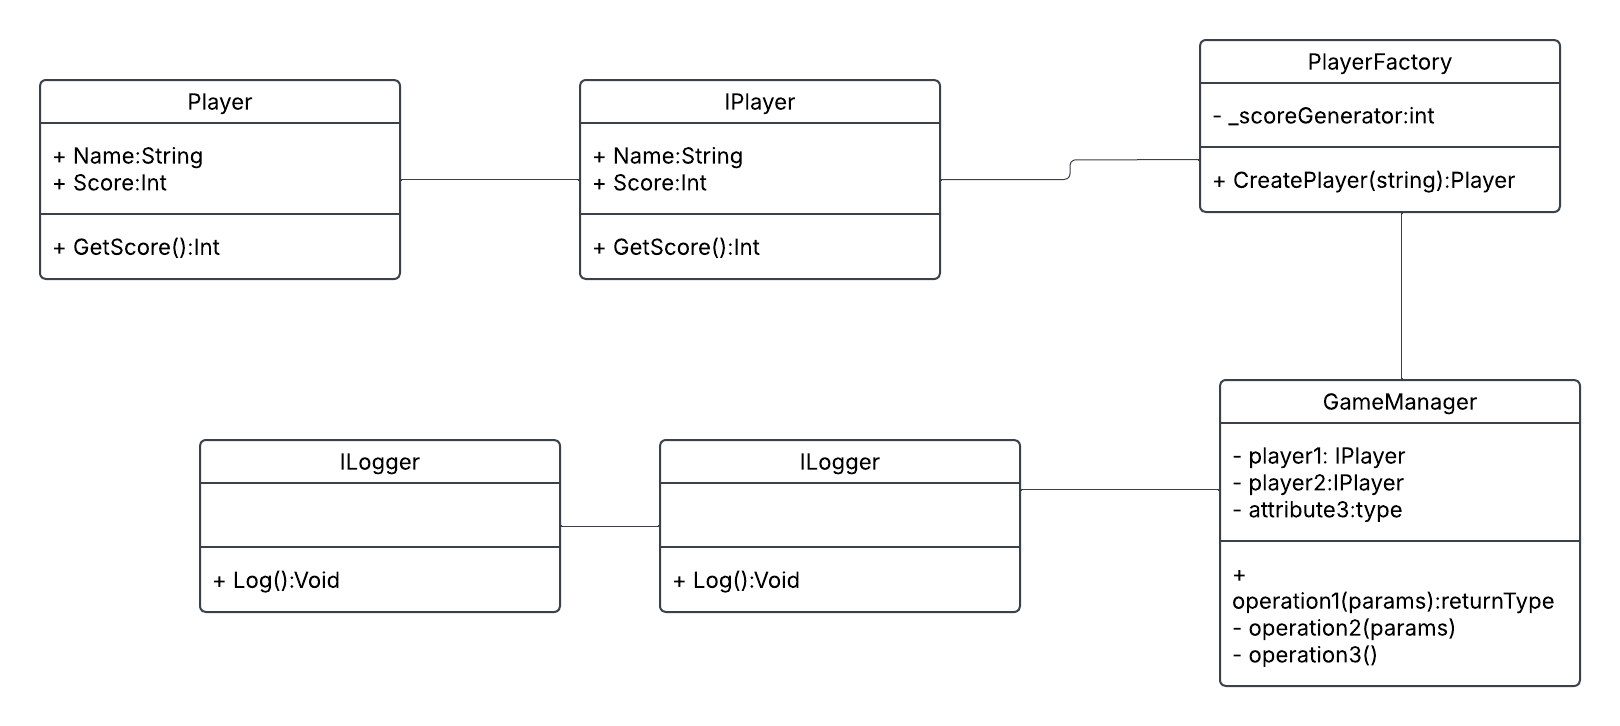
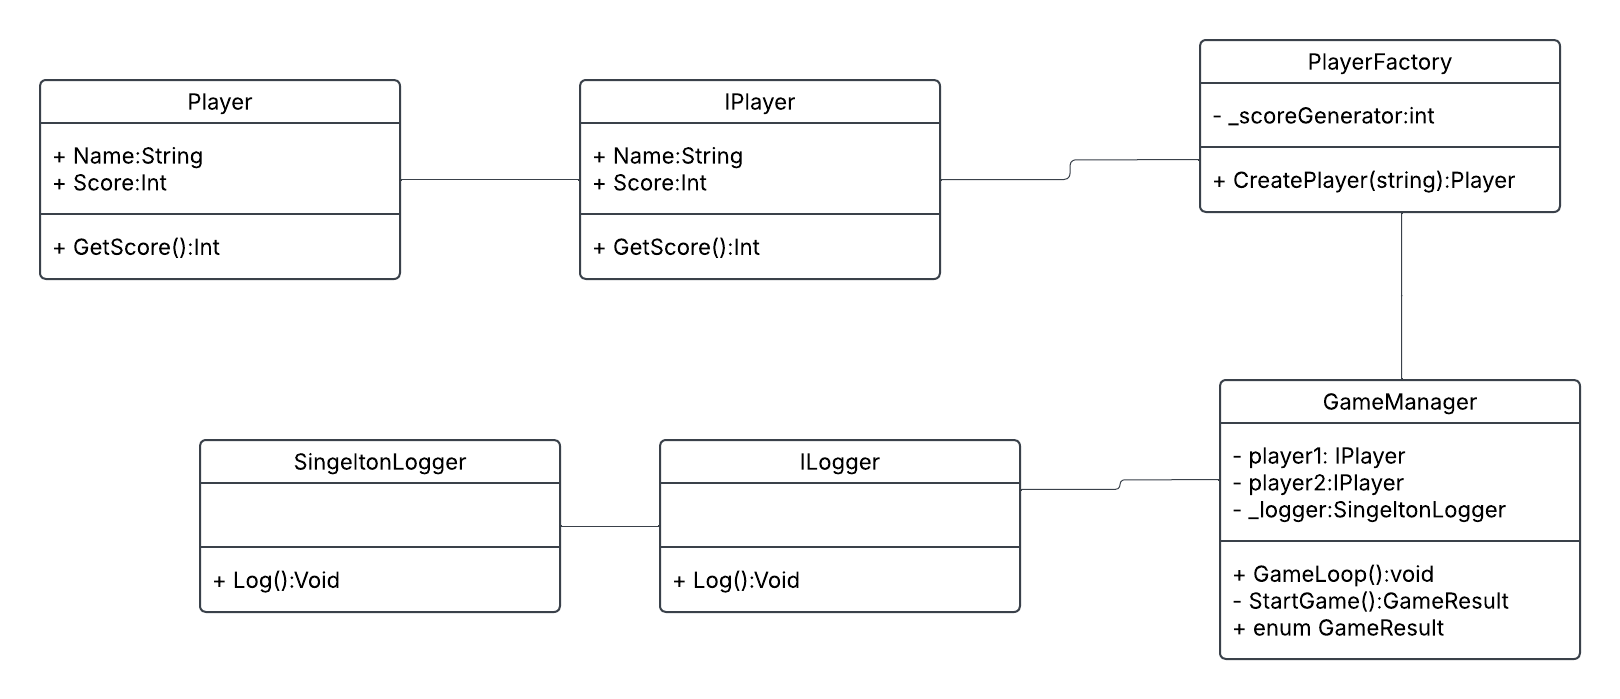
Fixed diagrams and added wireframe

diff --git a/BowlingGame/Migrations/20250303204006_PlayerTable.cs b/BowlingGame/Migrations/20250303204006_PlayerTable.cs
@@ -1,0 +1,72 @@
+using Microsoft.EntityFrameworkCore.Migrations;
+
+#nullable disable
+
+namespace BowlingGame.Migrations
+{
+    /// <inheritdoc />
+    public partial class PlayerTable : Migration
+    {
+        /// <inheritdoc />
+        protected override void Up(MigrationBuilder migrationBuilder)
+        {
+            migrationBuilder.AlterColumn<string>(
+                name: "Player2Name",
+                table: "Games",
+                type: "nvarchar(max)",
+                nullable: true,
+                oldClrType: typeof(string),
+                oldType: "nvarchar(max)");
+
+            migrationBuilder.AlterColumn<string>(
+                name: "Player1Name",
+                table: "Games",
+                type: "nvarchar(max)",
+                nullable: true,
+                oldClrType: typeof(string),
+                oldType: "nvarchar(max)");
+
+            migrationBuilder.CreateTable(
+                name: "Players",
+                columns: table => new
+                {
+                    Id = table.Column<int>(type: "int", nullable: false)
+                        .Annotation("SqlServer:Identity", "1, 1"),
+                    Name = table.Column<string>(type: "nvarchar(max)", nullable: false),
+                    Score = table.Column<int>(type: "int", nullable: false),
+                    TopScore = table.Column<int>(type: "int", nullable: false)
+                },
+                constraints: table =>
+                {
+                    table.PrimaryKey("PK_Players", x => x.Id);
+                });
+        }
+
+        /// <inheritdoc />
+        protected override void Down(MigrationBuilder migrationBuilder)
+        {
+            migrationBuilder.DropTable(
+                name: "Players");
+
+            migrationBuilder.AlterColumn<string>(
+                name: "Player2Name",
+                table: "Games",
+                type: "nvarchar(max)",
+                nullable: false,
+                defaultValue: "",
+                oldClrType: typeof(string),
+                oldType: "nvarchar(max)",
+                oldNullable: true);
+
+            migrationBuilder.AlterColumn<string>(
+                name: "Player1Name",
+                table: "Games",
+                type: "nvarchar(max)",
+                nullable: false,
+                defaultValue: "",
+                oldClrType: typeof(string),
+                oldType: "nvarchar(max)",
+                oldNullable: true);
+        }
+    }
+}

diff --git a/BowlingGame/Migrations/20250303204006_PlayerTable.Designer.cs b/BowlingGame/Migrations/20250303204006_PlayerTable.Designer.cs
@@ -3,6 +3,7 @@ using BowlingGame.data;
 using Microsoft.EntityFrameworkCore;
 using Microsoft.EntityFrameworkCore.Infrastructure;
 using Microsoft.EntityFrameworkCore.Metadata;
+using Microsoft.EntityFrameworkCore.Migrations;
 using Microsoft.EntityFrameworkCore.Storage.ValueConversion;
 
 #nullable disable
@@ -10,9 +11,11 @@ using Microsoft.EntityFrameworkCore.Storage.ValueConversion;
 namespace BowlingGame.Migrations
 {
     [DbContext(typeof(MyDbContext))]
-    partial class MyDbContextModelSnapshot : ModelSnapshot
+    [Migration("20250303204006_PlayerTable")]
+    partial class PlayerTable
     {
-        protected override void BuildModel(ModelBuilder modelBuilder)
+        /// <inheritdoc />
+        protected override void BuildTargetModel(ModelBuilder modelBuilder)
         {
 #pragma warning disable 612, 618
             modelBuilder
@@ -20,6 +23,29 @@ namespace BowlingGame.Migrations
                 .HasAnnotation("Relational:MaxIdentifierLength", 128);
 
             SqlServerModelBuilderExtensions.UseIdentityColumns(modelBuilder);
+
+            modelBuilder.Entity("BowlingGame.Player", b =>
+                {
+                    b.Property<int>("Id")
+                        .ValueGeneratedOnAdd()
+                        .HasColumnType("int");
+
+                    SqlServerPropertyBuilderExtensions.UseIdentityColumn(b.Property<int>("Id"));
+
+                    b.Property<string>("Name")
+                        .IsRequired()
+                        .HasColumnType("nvarchar(max)");
+
+                    b.Property<int>("Score")
+                        .HasColumnType("int");
+
+                    b.Property<int>("TopScore")
+                        .HasColumnType("int");
+
+                    b.HasKey("Id");
+
+                    b.ToTable("Players");
+                });
 
             modelBuilder.Entity("BowlingGame.data.Game", b =>
                 {

diff --git a/BowlingGame/GameManager.cs b/BowlingGame/GameManager.cs
@@ -16,6 +16,7 @@ namespace BowlingGame
     {
         private IPlayer? player1;
         private IPlayer? player2;
+        private readonly SingletonLogger _logger = SingletonLogger.Instance;
 
         public void SetPlayers(IPlayer player1, IPlayer player2)
         {
@@ -25,15 +26,12 @@ namespace BowlingGame
         public void Gameloop()
         {
             var serviceProvider = new ServiceCollection()
-                .AddSingleton<ILogger, ConsoleLogger>()
                 .AddTransient<IScoreGenerator, RandomScoreGenerator>()
                 .AddTransient<PlayerFactory>()
                 .AddDbContext<MyDbContext>()
                 .AddTransient<Game>()
                 .BuildServiceProvider();
 
-            var logger = serviceProvider.GetService<ILogger>() ??
-                throw new InvalidOperationException("Logger is not available.");
             var playerFactory = serviceProvider.GetRequiredService<PlayerFactory>();
 
             do
@@ -61,12 +59,11 @@ namespace BowlingGame
                 {
                     Console.WriteLine(player2.Name + " wins!🎳");
                 }
-                logger.Log("Results has been saved to the database.");
                 Console.WriteLine("Play again? (Y/N)");
             }
             while (Console.ReadLine().ToUpper() == "Y");
         }
-        public GameResult StartGame()
+        private GameResult StartGame()
         {
             if (player1 == null || player2 == null)
             {
@@ -87,6 +84,7 @@ namespace BowlingGame
                 context.Add(game);
                 context.SaveChanges();
             }
+            _logger.Log("Results has been saved to the database.");
 
             if (player1Score == player2Score)
             {

diff --git a/BowlingGame/Test/BGTest.cs b/BowlingGame/Test/BGTest.cs
@@ -14,9 +14,11 @@ namespace BowlingGame.test
         {
             TestPlayer player1 = new ("Player1Test", 50);
             TestPlayer player2 = new ("Player2Test", 5);
-            GameManager gameManager = new GameManager();
+            GameManager gameManager = new();
+
             gameManager.SetPlayers(player1, player2);
             GameManager.GameResult result = gameManager.StartGame();
+
             Assert.That(GameManager.GameResult.Player1Win == result);
         }
         [Test]
@@ -24,7 +26,8 @@ namespace BowlingGame.test
         {
             TestPlayer player1 = new ("Player1Test", 0);
             TestPlayer player2 = new ("Player2Test", 50);
-            GameManager gameManager = new GameManager();
+            GameManager gameManager = new();
+
             gameManager.SetPlayers(player1, player2);
             GameManager.GameResult result = gameManager.StartGame();
             Assert.That(GameManager.GameResult.Player2Win == result);        
@@ -34,9 +37,11 @@ namespace BowlingGame.test
         {
             TestPlayer player1 = new ("Player1Test", 10);
             TestPlayer player2 = new ("Player2Test", 10);
-            GameManager gameManager = new GameManager();
+            GameManager gameManager = new();
+
             gameManager.SetPlayers(player1, player2);
             GameManager.GameResult result = gameManager.StartGame();
+
             Assert.That(GameManager.GameResult.Tie == result);
         }
     }

diff --git a/BowlingGame/Migrations/20250304074636_RemovePlayerTable.cs b/BowlingGame/Migrations/20250304074636_RemovePlayerTable.cs
@@ -1,0 +1,36 @@
+using Microsoft.EntityFrameworkCore.Migrations;
+
+#nullable disable
+
+namespace BowlingGame.Migrations
+{
+    /// <inheritdoc />
+    public partial class RemovePlayerTable : Migration
+    {
+        /// <inheritdoc />
+        protected override void Up(MigrationBuilder migrationBuilder)
+        {
+            migrationBuilder.DropTable(
+                name: "Players");
+        }
+
+        /// <inheritdoc />
+        protected override void Down(MigrationBuilder migrationBuilder)
+        {
+            migrationBuilder.CreateTable(
+                name: "Players",
+                columns: table => new
+                {
+                    Id = table.Column<int>(type: "int", nullable: false)
+                        .Annotation("SqlServer:Identity", "1, 1"),
+                    Name = table.Column<string>(type: "nvarchar(max)", nullable: false),
+                    Score = table.Column<int>(type: "int", nullable: false),
+                    TopScore = table.Column<int>(type: "int", nullable: false)
+                },
+                constraints: table =>
+                {
+                    table.PrimaryKey("PK_Players", x => x.Id);
+                });
+        }
+    }
+}

diff --git a/BowlingGame/Migrations/20250304074636_RemovePlayerTable.Designer.cs b/BowlingGame/Migrations/20250304074636_RemovePlayerTable.Designer.cs
@@ -3,6 +3,7 @@ using BowlingGame.data;
 using Microsoft.EntityFrameworkCore;
 using Microsoft.EntityFrameworkCore.Infrastructure;
 using Microsoft.EntityFrameworkCore.Metadata;
+using Microsoft.EntityFrameworkCore.Migrations;
 using Microsoft.EntityFrameworkCore.Storage.ValueConversion;
 
 #nullable disable
@@ -10,9 +11,11 @@ using Microsoft.EntityFrameworkCore.Storage.ValueConversion;
 namespace BowlingGame.Migrations
 {
     [DbContext(typeof(MyDbContext))]
-    partial class MyDbContextModelSnapshot : ModelSnapshot
+    [Migration("20250304074636_RemovePlayerTable")]
+    partial class RemovePlayerTable
     {
-        protected override void BuildModel(ModelBuilder modelBuilder)
+        /// <inheritdoc />
+        protected override void BuildTargetModel(ModelBuilder modelBuilder)
         {
 #pragma warning disable 612, 618
             modelBuilder

diff --git a/BowlingGame/SingeltonLogger.cs b/BowlingGame/SingeltonLogger.cs
@@ -1,0 +1,23 @@
+using BowlingGame.Core;
+using System;
+using System.Collections.Generic;
+using System.Linq;
+using System.Text;
+using System.Threading.Tasks;
+
+namespace BowlingGame
+{
+    public sealed class SingletonLogger : ILogger
+    {
+        private static readonly SingletonLogger _instance = new();
+        private SingletonLogger() { }
+        public static SingletonLogger Instance => _instance;
+
+        public void Log(string message)
+        {
+            Console.ForegroundColor = ConsoleColor.Yellow;
+            Console.WriteLine($"[LOG]: {message}");
+            Console.ResetColor();
+        }
+    }
+}

diff --git a/BowlingGame/Player.cs b/BowlingGame/Player.cs
@@ -9,7 +9,6 @@ namespace BowlingGame
 {
     public class Player : IPlayer
     {
-        public int Id { get; set; }
         public string Name { get; set; }
         public int Score { get; set; }
 
